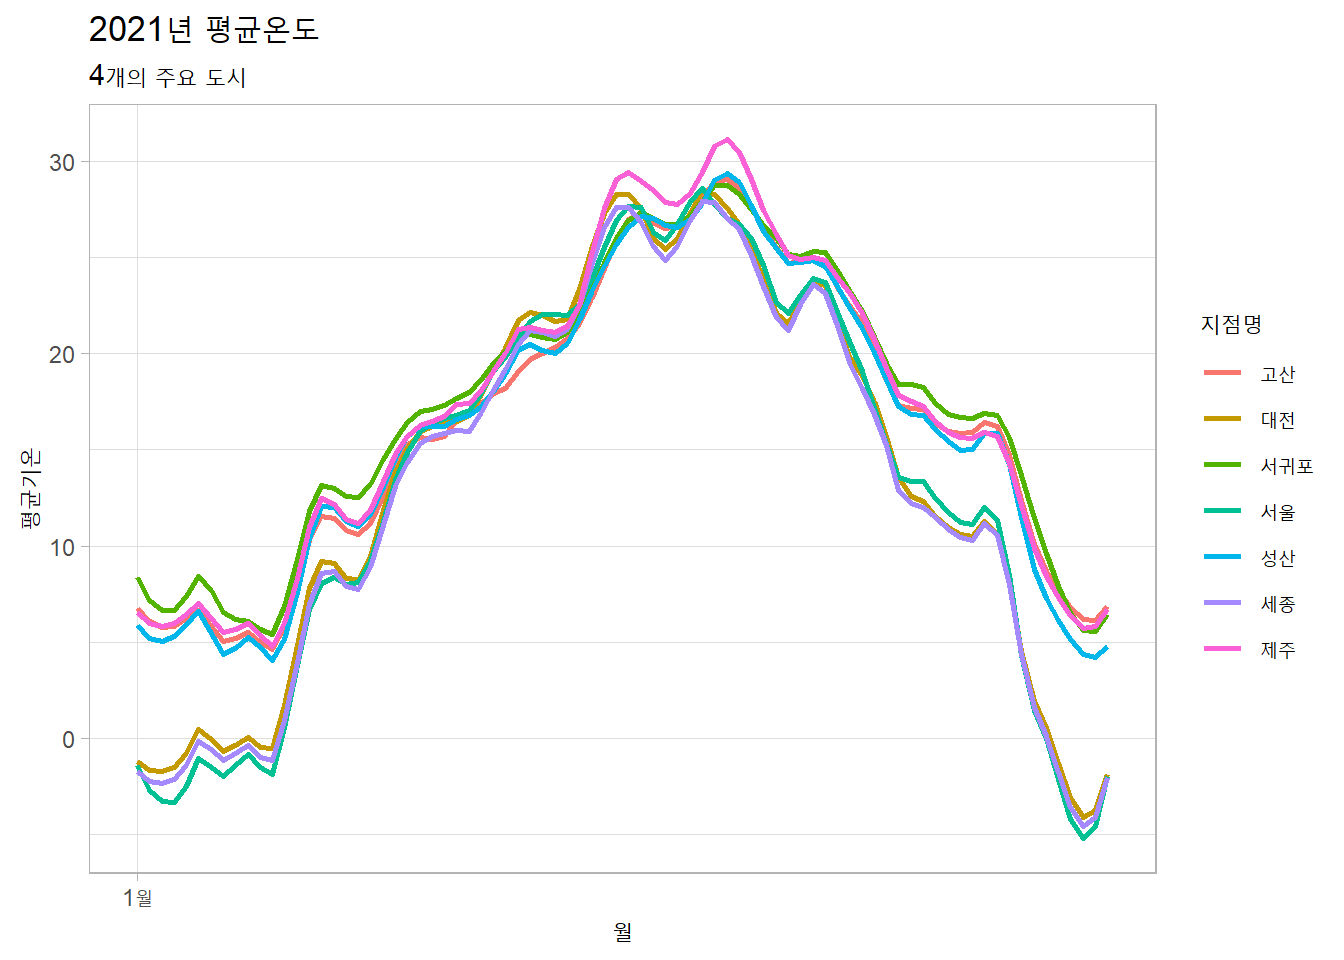
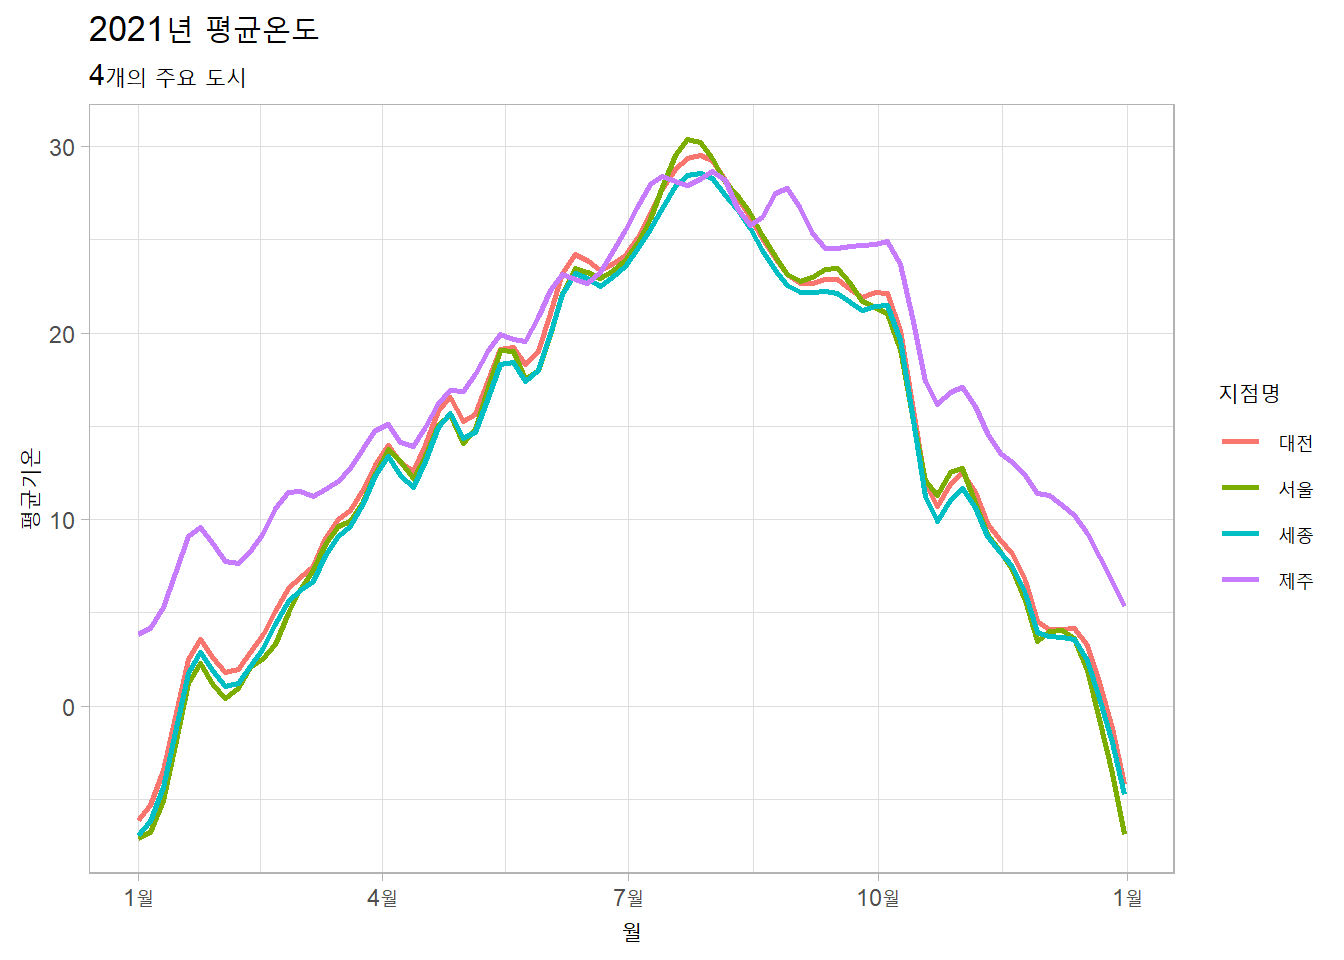
hi

diff --git a/docs/posts/Data_Visualize_Ch2/CH2.html b/docs/posts/Data_Visualize_Ch2/CH2.html
@@ -480,19 +480,19 @@ code span.wa { color: #60a0b0; font-weight: bold; font-style: italic; } /* Warni
 <section id="csv파일-불러오기-데이터-파악" class="level3">
 <h3 class="anchored" data-anchor-id="csv파일-불러오기-데이터-파악">- csv파일 불러오기, 데이터 파악</h3>
 <div class="cell">
-<div class="sourceCode cell-code" id="cb12"><pre class="sourceCode r code-with-copy"><code class="sourceCode r"><span id="cb12-1"><a href="#cb12-1" aria-hidden="true" tabindex="-1"></a>data_2021 <span class="ot">&lt;-</span> <span class="fu">read.csv</span>(<span class="st">'C:/Users/seong taek/Desktop/3-1 DataVisualize/OBS_ASOS_DD_20230322080932.csv'</span>, <span class="at">fileEncoding =</span> <span class="st">'cp949'</span>)</span>
+<div class="sourceCode cell-code" id="cb12"><pre class="sourceCode r code-with-copy"><code class="sourceCode r"><span id="cb12-1"><a href="#cb12-1" aria-hidden="true" tabindex="-1"></a>data_2021 <span class="ot">&lt;-</span> <span class="fu">read.csv</span>(<span class="st">'C:/Users/seong taek/Desktop/3-1 DataVisualize/OBS_ASOS_DD_20220308125952.csv'</span>, <span class="at">fileEncoding =</span> <span class="st">'cp949'</span>)</span>
 <span id="cb12-2"><a href="#cb12-2" aria-hidden="true" tabindex="-1"></a></span>
 <span id="cb12-3"><a href="#cb12-3" aria-hidden="true" tabindex="-1"></a>data_2021 <span class="sc">%&gt;%</span> <span class="fu">dim</span>()</span>
-<span id="cb12-4"><a href="#cb12-4" aria-hidden="true" tabindex="-1"></a><span class="co">#&gt; [1] 2555    6</span></span>
+<span id="cb12-4"><a href="#cb12-4" aria-hidden="true" tabindex="-1"></a><span class="co">#&gt; [1] 1460    6</span></span>
 <span id="cb12-5"><a href="#cb12-5" aria-hidden="true" tabindex="-1"></a></span>
 <span id="cb12-6"><a href="#cb12-6" aria-hidden="true" tabindex="-1"></a>data_2021 <span class="sc">%&gt;%</span> <span class="fu">head</span>()</span>
 <span id="cb12-7"><a href="#cb12-7" aria-hidden="true" tabindex="-1"></a><span class="co">#&gt;   지점 지점명       일시 평균기온..C. 최저기온..C. 최고기온..C.</span></span>
-<span id="cb12-8"><a href="#cb12-8" aria-hidden="true" tabindex="-1"></a><span class="co">#&gt; 1  108   서울 2022-01-01         -4.3        -10.2          2.3</span></span>
-<span id="cb12-9"><a href="#cb12-9" aria-hidden="true" tabindex="-1"></a><span class="co">#&gt; 2  108   서울 2022-01-02         -1.3         -5.2          3.0</span></span>
-<span id="cb12-10"><a href="#cb12-10" aria-hidden="true" tabindex="-1"></a><span class="co">#&gt; 3  108   서울 2022-01-03         -1.9         -8.0          2.5</span></span>
-<span id="cb12-11"><a href="#cb12-11" aria-hidden="true" tabindex="-1"></a><span class="co">#&gt; 4  108   서울 2022-01-04         -2.5         -5.6          1.0</span></span>
-<span id="cb12-12"><a href="#cb12-12" aria-hidden="true" tabindex="-1"></a><span class="co">#&gt; 5  108   서울 2022-01-05         -2.8         -7.8          1.9</span></span>
-<span id="cb12-13"><a href="#cb12-13" aria-hidden="true" tabindex="-1"></a><span class="co">#&gt; 6  108   서울 2022-01-06         -2.2         -5.9          3.3</span></span>
+<span id="cb12-8"><a href="#cb12-8" aria-hidden="true" tabindex="-1"></a><span class="co">#&gt; 1  108   서울 2021-01-01         -4.2         -9.8          1.6</span></span>
+<span id="cb12-9"><a href="#cb12-9" aria-hidden="true" tabindex="-1"></a><span class="co">#&gt; 2  108   서울 2021-01-02         -5.0         -8.4         -1.4</span></span>
+<span id="cb12-10"><a href="#cb12-10" aria-hidden="true" tabindex="-1"></a><span class="co">#&gt; 3  108   서울 2021-01-03         -5.6         -9.1         -2.0</span></span>
+<span id="cb12-11"><a href="#cb12-11" aria-hidden="true" tabindex="-1"></a><span class="co">#&gt; 4  108   서울 2021-01-04         -3.5         -8.4          0.3</span></span>
+<span id="cb12-12"><a href="#cb12-12" aria-hidden="true" tabindex="-1"></a><span class="co">#&gt; 5  108   서울 2021-01-05         -5.5         -9.9         -2.1</span></span>
+<span id="cb12-13"><a href="#cb12-13" aria-hidden="true" tabindex="-1"></a><span class="co">#&gt; 6  108   서울 2021-01-06         -7.4        -12.0         -1.9</span></span>
 <span id="cb12-14"><a href="#cb12-14" aria-hidden="true" tabindex="-1"></a></span>
 <span id="cb12-15"><a href="#cb12-15" aria-hidden="true" tabindex="-1"></a>data_2021 <span class="sc">%&gt;%</span> <span class="fu">sapply</span>(class)</span>
 <span id="cb12-16"><a href="#cb12-16" aria-hidden="true" tabindex="-1"></a><span class="co">#&gt;         지점       지점명         일시 평균기온..C. 최저기온..C. 최고기온..C. </span></span>
@@ -514,33 +514,31 @@ code span.wa { color: #60a0b0; font-weight: bold; font-style: italic; } /* Warni
 <div class="cell">
 <div class="sourceCode cell-code" id="cb14"><pre class="sourceCode r code-with-copy"><code class="sourceCode r"><span id="cb14-1"><a href="#cb14-1" aria-hidden="true" tabindex="-1"></a>data_2021 <span class="sc">%&gt;%</span> <span class="fu">summary</span>()</span>
 <span id="cb14-2"><a href="#cb14-2" aria-hidden="true" tabindex="-1"></a><span class="co">#&gt;       지점          지점명               일시             평균기온..C.   </span></span>
-<span id="cb14-3"><a href="#cb14-3" aria-hidden="true" tabindex="-1"></a><span class="co">#&gt;  Min.   :108.0   Length:2555        Min.   :2022-01-01   Min.   :-11.80  </span></span>
-<span id="cb14-4"><a href="#cb14-4" aria-hidden="true" tabindex="-1"></a><span class="co">#&gt;  1st Qu.:133.0   Class :character   1st Qu.:2022-04-02   1st Qu.:  8.20  </span></span>
-<span id="cb14-5"><a href="#cb14-5" aria-hidden="true" tabindex="-1"></a><span class="co">#&gt;  Median :185.0   Mode  :character   Median :2022-07-02   Median : 16.40  </span></span>
-<span id="cb14-6"><a href="#cb14-6" aria-hidden="true" tabindex="-1"></a><span class="co">#&gt;  Mean   :175.1                      Mean   :2022-07-02   Mean   : 15.27  </span></span>
-<span id="cb14-7"><a href="#cb14-7" aria-hidden="true" tabindex="-1"></a><span class="co">#&gt;  3rd Qu.:189.0                      3rd Qu.:2022-10-01   3rd Qu.: 23.00  </span></span>
-<span id="cb14-8"><a href="#cb14-8" aria-hidden="true" tabindex="-1"></a><span class="co">#&gt;  Max.   :239.0                      Max.   :2022-12-31   Max.   : 32.20  </span></span>
-<span id="cb14-9"><a href="#cb14-9" aria-hidden="true" tabindex="-1"></a><span class="co">#&gt;                                                          NA's   :2       </span></span>
-<span id="cb14-10"><a href="#cb14-10" aria-hidden="true" tabindex="-1"></a><span class="co">#&gt;   최저기온..C.      최고기온..C.  </span></span>
-<span id="cb14-11"><a href="#cb14-11" aria-hidden="true" tabindex="-1"></a><span class="co">#&gt;  Min.   :-13.800   Min.   :-8.60  </span></span>
-<span id="cb14-12"><a href="#cb14-12" aria-hidden="true" tabindex="-1"></a><span class="co">#&gt;  1st Qu.:  4.225   1st Qu.:12.30  </span></span>
-<span id="cb14-13"><a href="#cb14-13" aria-hidden="true" tabindex="-1"></a><span class="co">#&gt;  Median : 12.600   Median :20.75  </span></span>
-<span id="cb14-14"><a href="#cb14-14" aria-hidden="true" tabindex="-1"></a><span class="co">#&gt;  Mean   : 11.626   Mean   :19.49  </span></span>
-<span id="cb14-15"><a href="#cb14-15" aria-hidden="true" tabindex="-1"></a><span class="co">#&gt;  3rd Qu.: 19.800   3rd Qu.:27.20  </span></span>
-<span id="cb14-16"><a href="#cb14-16" aria-hidden="true" tabindex="-1"></a><span class="co">#&gt;  Max.   : 28.900   Max.   :37.50  </span></span>
-<span id="cb14-17"><a href="#cb14-17" aria-hidden="true" tabindex="-1"></a><span class="co">#&gt;  NA's   :1         NA's   :1</span></span></code><button title="Copy to Clipboard" class="code-copy-button"><i class="bi"></i></button></pre></div>
+<span id="cb14-3"><a href="#cb14-3" aria-hidden="true" tabindex="-1"></a><span class="co">#&gt;  Min.   :108.0   Length:1460        Min.   :2021-01-01   Min.   :-14.90  </span></span>
+<span id="cb14-4"><a href="#cb14-4" aria-hidden="true" tabindex="-1"></a><span class="co">#&gt;  1st Qu.:126.8   Class :character   1st Qu.:2021-04-02   1st Qu.:  7.90  </span></span>
+<span id="cb14-5"><a href="#cb14-5" aria-hidden="true" tabindex="-1"></a><span class="co">#&gt;  Median :158.5   Mode  :character   Median :2021-07-02   Median : 15.00  </span></span>
+<span id="cb14-6"><a href="#cb14-6" aria-hidden="true" tabindex="-1"></a><span class="co">#&gt;  Mean   :166.0                      Mean   :2021-07-02   Mean   : 14.77  </span></span>
+<span id="cb14-7"><a href="#cb14-7" aria-hidden="true" tabindex="-1"></a><span class="co">#&gt;  3rd Qu.:197.8                      3rd Qu.:2021-10-01   3rd Qu.: 23.10  </span></span>
+<span id="cb14-8"><a href="#cb14-8" aria-hidden="true" tabindex="-1"></a><span class="co">#&gt;  Max.   :239.0                      Max.   :2021-12-31   Max.   : 31.70  </span></span>
+<span id="cb14-9"><a href="#cb14-9" aria-hidden="true" tabindex="-1"></a><span class="co">#&gt;   최저기온..C.     최고기온..C.   </span></span>
+<span id="cb14-10"><a href="#cb14-10" aria-hidden="true" tabindex="-1"></a><span class="co">#&gt;  Min.   :-19.10   Min.   :-10.70  </span></span>
+<span id="cb14-11"><a href="#cb14-11" aria-hidden="true" tabindex="-1"></a><span class="co">#&gt;  1st Qu.:  3.10   1st Qu.: 13.18  </span></span>
+<span id="cb14-12"><a href="#cb14-12" aria-hidden="true" tabindex="-1"></a><span class="co">#&gt;  Median : 11.10   Median : 20.15  </span></span>
+<span id="cb14-13"><a href="#cb14-13" aria-hidden="true" tabindex="-1"></a><span class="co">#&gt;  Mean   : 10.69   Mean   : 19.56  </span></span>
+<span id="cb14-14"><a href="#cb14-14" aria-hidden="true" tabindex="-1"></a><span class="co">#&gt;  3rd Qu.: 19.60   3rd Qu.: 27.70  </span></span>
+<span id="cb14-15"><a href="#cb14-15" aria-hidden="true" tabindex="-1"></a><span class="co">#&gt;  Max.   : 28.10   Max.   : 36.50</span></span></code><button title="Copy to Clipboard" class="code-copy-button"><i class="bi"></i></button></pre></div>
 </div>
 </section>
 <section id="x축에-표시할-눈금" class="level3">
 <h3 class="anchored" data-anchor-id="x축에-표시할-눈금">- x축에 표시할 눈금</h3>
 <div class="cell">
 <div class="sourceCode cell-code" id="cb15"><pre class="sourceCode r code-with-copy"><code class="sourceCode r"><span id="cb15-1"><a href="#cb15-1" aria-hidden="true" tabindex="-1"></a>data_2021<span class="sc">$</span>일시 <span class="sc">%&gt;%</span> <span class="fu">head</span>()</span>
-<span id="cb15-2"><a href="#cb15-2" aria-hidden="true" tabindex="-1"></a><span class="co">#&gt; [1] "2022-01-01" "2022-01-02" "2022-01-03" "2022-01-04" "2022-01-05"</span></span>
-<span id="cb15-3"><a href="#cb15-3" aria-hidden="true" tabindex="-1"></a><span class="co">#&gt; [6] "2022-01-06"</span></span>
+<span id="cb15-2"><a href="#cb15-2" aria-hidden="true" tabindex="-1"></a><span class="co">#&gt; [1] "2021-01-01" "2021-01-02" "2021-01-03" "2021-01-04" "2021-01-05"</span></span>
+<span id="cb15-3"><a href="#cb15-3" aria-hidden="true" tabindex="-1"></a><span class="co">#&gt; [6] "2021-01-06"</span></span>
 <span id="cb15-4"><a href="#cb15-4" aria-hidden="true" tabindex="-1"></a></span>
 <span id="cb15-5"><a href="#cb15-5" aria-hidden="true" tabindex="-1"></a>data_2021<span class="sc">$</span>일시 <span class="sc">%&gt;%</span> <span class="fu">tail</span>()</span>
-<span id="cb15-6"><a href="#cb15-6" aria-hidden="true" tabindex="-1"></a><span class="co">#&gt; [1] "2022-12-26" "2022-12-27" "2022-12-28" "2022-12-29" "2022-12-30"</span></span>
-<span id="cb15-7"><a href="#cb15-7" aria-hidden="true" tabindex="-1"></a><span class="co">#&gt; [6] "2022-12-31"</span></span>
+<span id="cb15-6"><a href="#cb15-6" aria-hidden="true" tabindex="-1"></a><span class="co">#&gt; [1] "2021-12-26" "2021-12-27" "2021-12-28" "2021-12-29" "2021-12-30"</span></span>
+<span id="cb15-7"><a href="#cb15-7" aria-hidden="true" tabindex="-1"></a><span class="co">#&gt; [6] "2021-12-31"</span></span>
 <span id="cb15-8"><a href="#cb15-8" aria-hidden="true" tabindex="-1"></a></span>
 <span id="cb15-9"><a href="#cb15-9" aria-hidden="true" tabindex="-1"></a>date_s <span class="ot">&lt;-</span> <span class="st">'2021-01-01'</span> <span class="sc">%&gt;%</span> <span class="fu">as.Date</span>(<span class="st">'%Y-%m-%d'</span>)</span>
 <span id="cb15-10"><a href="#cb15-10" aria-hidden="true" tabindex="-1"></a>date_e <span class="ot">&lt;-</span> <span class="st">'2022-01-01'</span> <span class="sc">%&gt;%</span> <span class="fu">as.Date</span>(<span class="st">'%Y-%m-%d'</span>)</span>
@@ -588,8 +586,7 @@ code span.wa { color: #60a0b0; font-weight: bold; font-style: italic; } /* Warni
 <span id="cb16-11"><a href="#cb16-11" aria-hidden="true" tabindex="-1"></a>  <span class="fu">scale_y_continuous</span>(<span class="at">name =</span> <span class="st">'평균기온'</span>) <span class="sc">+</span></span>
 <span id="cb16-12"><a href="#cb16-12" aria-hidden="true" tabindex="-1"></a>  <span class="fu">labs</span>(<span class="at">title =</span> <span class="st">'2021년 평균온도'</span>, <span class="at">subtitle =</span> <span class="st">'4개의 주요 도시'</span>) <span class="sc">+</span></span>
 <span id="cb16-13"><a href="#cb16-13" aria-hidden="true" tabindex="-1"></a>  <span class="fu">theme_light</span>()</span>
-<span id="cb16-14"><a href="#cb16-14" aria-hidden="true" tabindex="-1"></a><span class="co">#&gt; `geom_smooth()` using method = 'loess' and formula = 'y ~ x'</span></span>
-<span id="cb16-15"><a href="#cb16-15" aria-hidden="true" tabindex="-1"></a><span class="co">#&gt; Warning: Removed 2 rows containing non-finite values (`stat_smooth()`).</span></span></code><button title="Copy to Clipboard" class="code-copy-button"><i class="bi"></i></button></pre></div>
+<span id="cb16-14"><a href="#cb16-14" aria-hidden="true" tabindex="-1"></a><span class="co">#&gt; `geom_smooth()` using method = 'loess' and formula = 'y ~ x'</span></span></code><button title="Copy to Clipboard" class="code-copy-button"><i class="bi"></i></button></pre></div>
 <div class="cell-output-display">
 <p><img src="CH2_files/figure-html/unnamed-chunk-16-1.png" class="img-fluid" width="672"></p>
 </div>
@@ -604,12 +601,12 @@ code span.wa { color: #60a0b0; font-weight: bold; font-style: italic; } /* Warni
 <span id="cb17-4"><a href="#cb17-4" aria-hidden="true" tabindex="-1"></a></span>
 <span id="cb17-5"><a href="#cb17-5" aria-hidden="true" tabindex="-1"></a>data_2021 <span class="sc">%&gt;%</span> <span class="fu">head</span>()</span>
 <span id="cb17-6"><a href="#cb17-6" aria-hidden="true" tabindex="-1"></a><span class="co">#&gt;   지점 지점명       일시 평균기온..C. 최저기온..C. 최고기온..C.</span></span>
-<span id="cb17-7"><a href="#cb17-7" aria-hidden="true" tabindex="-1"></a><span class="co">#&gt; 1  108   서울 2022-01-01         -4.3        -10.2          2.3</span></span>
-<span id="cb17-8"><a href="#cb17-8" aria-hidden="true" tabindex="-1"></a><span class="co">#&gt; 2  108   서울 2022-01-02         -1.3         -5.2          3.0</span></span>
-<span id="cb17-9"><a href="#cb17-9" aria-hidden="true" tabindex="-1"></a><span class="co">#&gt; 3  108   서울 2022-01-03         -1.9         -8.0          2.5</span></span>
-<span id="cb17-10"><a href="#cb17-10" aria-hidden="true" tabindex="-1"></a><span class="co">#&gt; 4  108   서울 2022-01-04         -2.5         -5.6          1.0</span></span>
-<span id="cb17-11"><a href="#cb17-11" aria-hidden="true" tabindex="-1"></a><span class="co">#&gt; 5  108   서울 2022-01-05         -2.8         -7.8          1.9</span></span>
-<span id="cb17-12"><a href="#cb17-12" aria-hidden="true" tabindex="-1"></a><span class="co">#&gt; 6  108   서울 2022-01-06         -2.2         -5.9          3.3</span></span>
+<span id="cb17-7"><a href="#cb17-7" aria-hidden="true" tabindex="-1"></a><span class="co">#&gt; 1  108   서울 2021-01-01         -4.2         -9.8          1.6</span></span>
+<span id="cb17-8"><a href="#cb17-8" aria-hidden="true" tabindex="-1"></a><span class="co">#&gt; 2  108   서울 2021-01-02         -5.0         -8.4         -1.4</span></span>
+<span id="cb17-9"><a href="#cb17-9" aria-hidden="true" tabindex="-1"></a><span class="co">#&gt; 3  108   서울 2021-01-03         -5.6         -9.1         -2.0</span></span>
+<span id="cb17-10"><a href="#cb17-10" aria-hidden="true" tabindex="-1"></a><span class="co">#&gt; 4  108   서울 2021-01-04         -3.5         -8.4          0.3</span></span>
+<span id="cb17-11"><a href="#cb17-11" aria-hidden="true" tabindex="-1"></a><span class="co">#&gt; 5  108   서울 2021-01-05         -5.5         -9.9         -2.1</span></span>
+<span id="cb17-12"><a href="#cb17-12" aria-hidden="true" tabindex="-1"></a><span class="co">#&gt; 6  108   서울 2021-01-06         -7.4        -12.0         -1.9</span></span>
 <span id="cb17-13"><a href="#cb17-13" aria-hidden="true" tabindex="-1"></a></span>
 <span id="cb17-14"><a href="#cb17-14" aria-hidden="true" tabindex="-1"></a>data_2021_month <span class="ot">&lt;-</span> data_2021 <span class="sc">%&gt;%</span></span>
 <span id="cb17-15"><a href="#cb17-15" aria-hidden="true" tabindex="-1"></a>  <span class="fu">mutate</span>(<span class="at">month =</span> <span class="fu">format</span>(일시, <span class="st">'%B'</span>)) <span class="sc">%&gt;%</span>   <span class="co"># 일시에서 월만 뽑아낸 month 컬럼 생성</span></span>
@@ -622,20 +619,20 @@ code span.wa { color: #60a0b0; font-weight: bold; font-style: italic; } /* Warni
 <span id="cb17-22"><a href="#cb17-22" aria-hidden="true" tabindex="-1"></a><span class="co">#&gt; `.groups` argument.</span></span>
 <span id="cb17-23"><a href="#cb17-23" aria-hidden="true" tabindex="-1"></a></span>
 <span id="cb17-24"><a href="#cb17-24" aria-hidden="true" tabindex="-1"></a>data_2021_month</span>
-<span id="cb17-25"><a href="#cb17-25" aria-hidden="true" tabindex="-1"></a><span class="co">#&gt; # A tibble: 84 × 3</span></span>
-<span id="cb17-26"><a href="#cb17-26" aria-hidden="true" tabindex="-1"></a><span class="co">#&gt;    지점명 month  mean</span></span>
-<span id="cb17-27"><a href="#cb17-27" aria-hidden="true" tabindex="-1"></a><span class="co">#&gt;    &lt;chr&gt;  &lt;fct&gt; &lt;dbl&gt;</span></span>
-<span id="cb17-28"><a href="#cb17-28" aria-hidden="true" tabindex="-1"></a><span class="co">#&gt;  1 고산   10월  18.0 </span></span>
-<span id="cb17-29"><a href="#cb17-29" aria-hidden="true" tabindex="-1"></a><span class="co">#&gt;  2 고산   11월  15.5 </span></span>
-<span id="cb17-30"><a href="#cb17-30" aria-hidden="true" tabindex="-1"></a><span class="co">#&gt;  3 고산   12월   7.28</span></span>
-<span id="cb17-31"><a href="#cb17-31" aria-hidden="true" tabindex="-1"></a><span class="co">#&gt;  4 고산   1월    6.08</span></span>
-<span id="cb17-32"><a href="#cb17-32" aria-hidden="true" tabindex="-1"></a><span class="co">#&gt;  5 고산   2월    5.24</span></span>
-<span id="cb17-33"><a href="#cb17-33" aria-hidden="true" tabindex="-1"></a><span class="co">#&gt;  6 고산   3월   10.8 </span></span>
-<span id="cb17-34"><a href="#cb17-34" aria-hidden="true" tabindex="-1"></a><span class="co">#&gt;  7 고산   4월   14.8 </span></span>
-<span id="cb17-35"><a href="#cb17-35" aria-hidden="true" tabindex="-1"></a><span class="co">#&gt;  8 고산   5월   18.1 </span></span>
-<span id="cb17-36"><a href="#cb17-36" aria-hidden="true" tabindex="-1"></a><span class="co">#&gt;  9 고산   6월   22.1 </span></span>
-<span id="cb17-37"><a href="#cb17-37" aria-hidden="true" tabindex="-1"></a><span class="co">#&gt; 10 고산   7월   27.0 </span></span>
-<span id="cb17-38"><a href="#cb17-38" aria-hidden="true" tabindex="-1"></a><span class="co">#&gt; # … with 74 more rows</span></span></code><button title="Copy to Clipboard" class="code-copy-button"><i class="bi"></i></button></pre></div>
+<span id="cb17-25"><a href="#cb17-25" aria-hidden="true" tabindex="-1"></a><span class="co">#&gt; # A tibble: 48 × 3</span></span>
+<span id="cb17-26"><a href="#cb17-26" aria-hidden="true" tabindex="-1"></a><span class="co">#&gt;    지점명 month   mean</span></span>
+<span id="cb17-27"><a href="#cb17-27" aria-hidden="true" tabindex="-1"></a><span class="co">#&gt;    &lt;chr&gt;  &lt;fct&gt;  &lt;dbl&gt;</span></span>
+<span id="cb17-28"><a href="#cb17-28" aria-hidden="true" tabindex="-1"></a><span class="co">#&gt;  1 대전   10월  15.7  </span></span>
+<span id="cb17-29"><a href="#cb17-29" aria-hidden="true" tabindex="-1"></a><span class="co">#&gt;  2 대전   11월   8.91 </span></span>
+<span id="cb17-30"><a href="#cb17-30" aria-hidden="true" tabindex="-1"></a><span class="co">#&gt;  3 대전   12월   1.89 </span></span>
+<span id="cb17-31"><a href="#cb17-31" aria-hidden="true" tabindex="-1"></a><span class="co">#&gt;  4 대전   1월   -0.984</span></span>
+<span id="cb17-32"><a href="#cb17-32" aria-hidden="true" tabindex="-1"></a><span class="co">#&gt;  5 대전   2월    3.99 </span></span>
+<span id="cb17-33"><a href="#cb17-33" aria-hidden="true" tabindex="-1"></a><span class="co">#&gt;  6 대전   3월    9.61 </span></span>
+<span id="cb17-34"><a href="#cb17-34" aria-hidden="true" tabindex="-1"></a><span class="co">#&gt;  7 대전   4월   14.7  </span></span>
+<span id="cb17-35"><a href="#cb17-35" aria-hidden="true" tabindex="-1"></a><span class="co">#&gt;  8 대전   5월   17.7  </span></span>
+<span id="cb17-36"><a href="#cb17-36" aria-hidden="true" tabindex="-1"></a><span class="co">#&gt;  9 대전   6월   23.5  </span></span>
+<span id="cb17-37"><a href="#cb17-37" aria-hidden="true" tabindex="-1"></a><span class="co">#&gt; 10 대전   7월   27.8  </span></span>
+<span id="cb17-38"><a href="#cb17-38" aria-hidden="true" tabindex="-1"></a><span class="co">#&gt; # … with 38 more rows</span></span></code><button title="Copy to Clipboard" class="code-copy-button"><i class="bi"></i></button></pre></div>
 </div>
 </section>
 <section id="figure-2.4-ggplot-geom_tile-fill-color-1" class="level3">

diff --git a/docs/index.html b/docs/index.html
@@ -175,7 +175,7 @@ ul.task-list li input[type="checkbox"] {
 
 <div class="quarto-listing quarto-listing-container-default" id="listing-listing">
 <div class="list quarto-listing-default">
-<div class="quarto-post image-right" data-index="0" data-categories="code,data_visualize,rstudio" data-listing-date-sort="1680102000000" data-listing-file-modified-sort="1680122508487" data-listing-reading-time-sort="5.445">
+<div class="quarto-post image-right" data-index="0" data-categories="code,data_visualize,rstudio" data-listing-date-sort="1680102000000" data-listing-file-modified-sort="1680147894295" data-listing-reading-time-sort="5.445">
 <div class="thumbnail">
 <p><a href="./posts/Data_Visualize_Ch2/CH2.html"> <img src="./posts/Data_Visualize_Ch2/ggplot.jpg" class="thumnail-image"> </a></p>
 </div>
@@ -216,7 +216,7 @@ Seongtaek
 </a>
 </div>
 </div>
-<div class="quarto-post image-right" data-index="1" data-categories="code,data_visualize,rstudio" data-listing-date-sort="1680015600000" data-listing-file-modified-sort="1680122701138" data-listing-reading-time-sort="1.495">
+<div class="quarto-post image-right" data-index="1" data-categories="code,data_visualize,rstudio" data-listing-date-sort="1680015600000" data-listing-file-modified-sort="1680122763658" data-listing-reading-time-sort="1.495">
 <div class="thumbnail">
 <p><a href="./posts/Data_Visualize_Ch1/데이터시각화 2주차 ggplot2 기초.html"> <img src="./posts/Data_Visualize_Ch1/ggplot.jpg" class="thumnail-image"> </a></p>
 </div>
